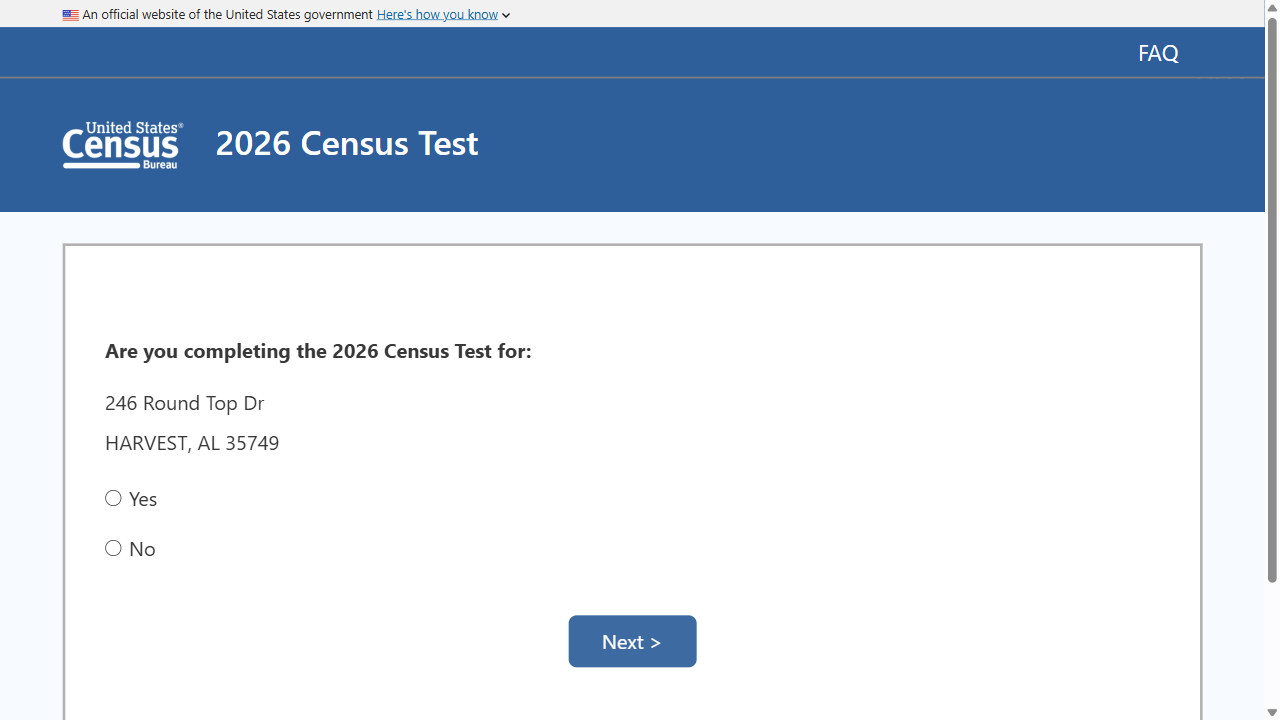
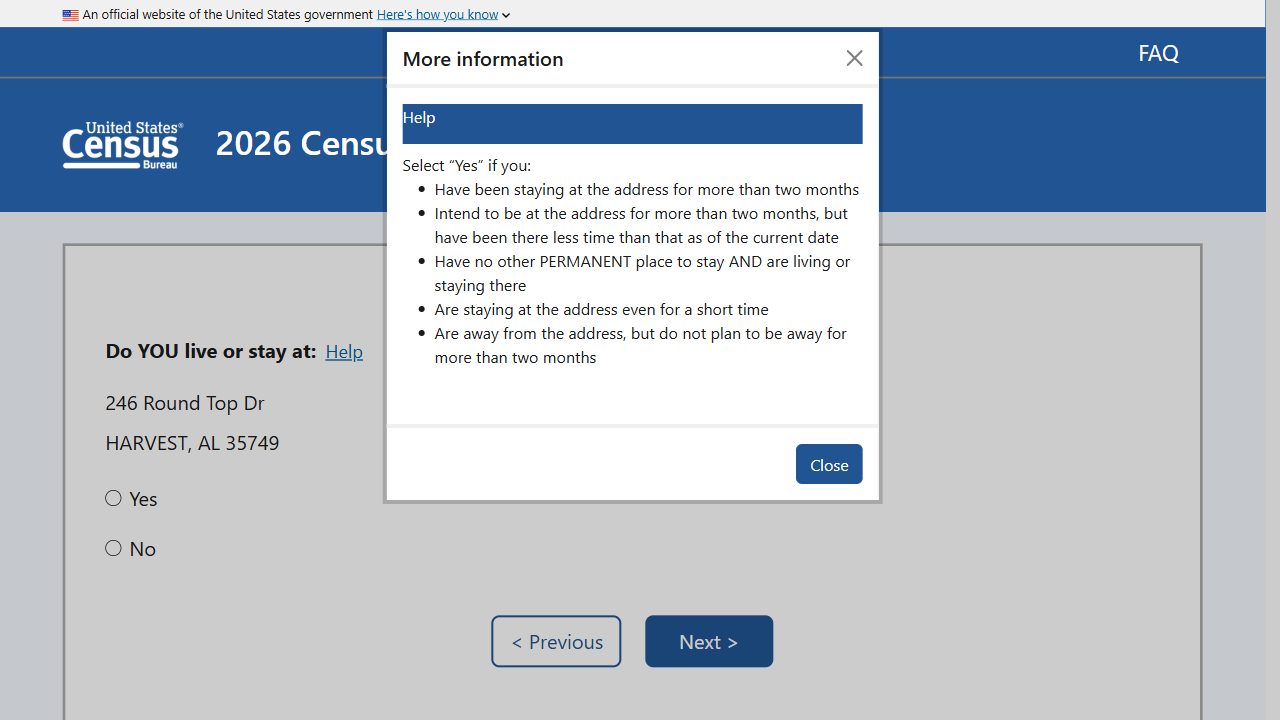
added yml file

diff --git a/tests/steps/CompletingCensus.ts b/tests/steps/CompletingCensus.ts
@@ -1,6 +1,7 @@
    import {Given,When,Then} from '@cucumber/cucumber';
     import { expect,Page}from '@playwright/test';
     import  {CompletingCensusPage} from '../pages/CompletingCensusPage';
+    import {ExcelReader} from '../utils/ExcelReader';
 
                 
         Given('I am on Census Form page1 {string}', async function (expectedHeaderPage1) {
@@ -15,6 +16,7 @@
         await this.completingCensusPage.verifyAddress(expectedAddress);  
          });
 
+                  
         Then('User clicks Yes button', async function () {
          await this.completingCensusPage.clickOnYesButton();   
          });
@@ -27,7 +29,31 @@
 
        Then('I verify that page2 {string} is displayed', async function (expectedHeaderPage2) {
         await this.page.waitForTimeout(1000);
-       await this.completingCensusPage.verifyPageHeader(expectedHeaderPage2); 
+        await this.completingCensusPage.verifyPageHeader(expectedHeaderPage2); 
+        });
+
+       Then('click Help link', async function () {
+
+        await this. page.getByRole('button', { name: 'Help' }).click();  
+        
+        //Read from UI
+        const helpSection=this.page.locator('#component170');
+        await helpSection.waitFor({state:'visible'});
+        const UIHelpText=await helpSection.textContent();
+        console.log('Help sectiontext:',UIHelpText) ;   
+       
+        //Read from excel
+        await this.page.waitForLoadState('networkidle');
+         const ExpectedHelpTextPage2=ExcelReader.getCellData('ISRData',1,0);
+         console.log('HelpTextPage2 from Excel:',ExpectedHelpTextPage2,{timeout:15000});
+         
+         //Compare both
+         expect(UIHelpText?.trim()).toContain(ExpectedHelpTextPage2.trim());
         });
 
 
+
+                
+         //Verify text on More Information window
+
+         

diff --git a/tests/pages/CompletingCensusPage.ts b/tests/pages/CompletingCensusPage.ts
@@ -4,6 +4,7 @@ export class CompletingCensusPage
   private page:Page;
   private headerPage1Locator:Locator;
   private headerLocatorPage2:Locator;
+  private headerLocatorPage3:Locator;
   private addressText:Locator;
   private yesButton:Locator;
   private nextButton:Locator;
@@ -12,7 +13,9 @@ export class CompletingCensusPage
     {
     this.page=page;
     this.headerPage1Locator=page.locator('//div[contains(@class,"question-wording mb-3 fw-bold")]/span');
-    this.headerLocatorPage2=page.locator('//div[contains(@class,"question-wording")]/span');
+    this.headerLocatorPage2=page.locator('//div[contains(@class,"question-wording")]/span');    
+    this.headerLocatorPage3=page.locator('//div[contains(@class,"question-wording")]/span');
+
     this.addressText=page.locator('Label.form-label.d-block span');  
     this.yesButton=page.getByRole('radio', { name: 'Yes' });
     this.nextButton=page.getByRole('button', { name: 'Next >' });
@@ -39,10 +42,25 @@ await expect(this.addressText).toHaveText(expectedAddress);
 async verifyPageHeader(expectedHeaderPage2:string){
  const actualHeaderPage2=await  this.headerLocatorPage2.textContent();
  console.log("Extracted Header Page2:", actualHeaderPage2);
- console.log("Expected Header: Page2", expectedHeaderPage2);
+ console.log("Expected Header: Page2:", expectedHeaderPage2);
  //await expect(this.headerLocator).toHaveText(expectedHeader);
 expect(actualHeaderPage2?.trim()).toBe( expectedHeaderPage2);
 }
+
+
+//Verify pageHeader Page3
+async verifyPageHeaderPage3(expectedHeaderPage3:string){
+ const actualHeaderPage3=await  this.headerLocatorPage3.textContent();
+ console.log("Extracted Header Page3:", actualHeaderPage3);
+ console.log("Expected Header: Page3:", expectedHeaderPage3);
+ //await expect(this.headerLocator).toHaveText(expectedHeader);
+expect(actualHeaderPage3?.trim()).toBe( expectedHeaderPage3);
+} 
+
+
+
+
+
 
 async clickOnYesButton(){
 await this.yesButton.click();
@@ -51,6 +69,11 @@ await this.yesButton.click();
 async clickOnNextButton(){
 await this.nextButton.click();
 }
+
+
+
+
+
 }
 
 

diff --git a/config/browsers/browserManager.ts b/config/browsers/browserManager.ts
@@ -1,0 +1,24 @@
+import {LaunchOptions,chromium,firefox,webkit,Browser,BrowserType} from "playwright";
+
+const options:LaunchOptions={
+    headless:false,
+};
+
+
+export async function invokeBrowser(){
+    const browserType=(process.env.BROWSER || "chromium");
+  
+    switch (browserType){
+        case "chromium":
+            case "chrome":
+           return chromium.launch(options);      
+
+
+            case "firefox":
+          return  firefox.launch(options);
+                
+            case "webkit":
+          return  webkit.launch(options);                 
+    }      
+
+};

diff --git a/tests/support/hooks.ts b/tests/support/hooks.ts
@@ -3,17 +3,22 @@ import { chromium,Browser,BrowserContext,Page } from "playwright/test";
  import {ExcelReader} from '../utils/ExcelReader';
  import {LoginPage} from '../pages/LoginPage';
   import {config}  from '../../config/env';
+  import {invokeBrowser} from '../../config/browsers/browserManager';
 
 
 setDefaultTimeout(60*2000);
-let browser:Browser;
+let browser:any
+//let browser:Browser;
 let censusId :string;
 let baseURL: string;
 
 BeforeAll(async ()=>{
-browser=await chromium.launch({
-headless:false,slowMo:1000,
-});
+  browser=await invokeBrowser();
+
+
+//browser=await chromium.launch({
+//headless:false,slowMo:1000,
+//});
 
 //Load census ID from excel
  censusId=ExcelReader.getCellData('LoginData',1,0);
@@ -50,11 +55,14 @@ await this.attach(images,"image/png");
  }   
 await this.context.close();
 });
-    
+  
+
+/*
 AfterAll(async()=>{
 if(browser){
 await browser.close();
 console.log("Browser closed");
 }
-});
 
+});
+*/

diff --git a/cucumber-report.html b/cucumber-report.html
@@ -50,7 +50,7 @@
 <div id="content">
 </div>
 <script>
-window.CUCUMBER_MESSAGES = [{"meta":{"protocolVersion":"32.2.0","implementation":{"version":"13.0.0","name":"cucumber-js"},"cpu":{"name":"x64"},"os":{"name":"win32","version":"10.0.26100"},"runtime":{"name":"node.js","version":"24.14.1"}}},{"source":{"data":"Feature: Completing census form\r\n\r\n\r\nScenario: Completing Census form\r\nGiven I am on Census Form page1 \"Are you completing the 2026 Census Test for:\"\r\nThen I verify the address \"246 Round Top Dr HARVEST, AL 35749\" is displayed\r\nAnd User clicks Yes button\r\nAnd User clicks Next\r\nThen I verify that page2 \"Do YOU live or stay at:\" is displayed\r\n","uri":"tests\\features\\CompletingCensus.feature","mediaType":"text/x.cucumber.gherkin+plain"}},{"gherkinDocument":{"feature":{"tags":[],"location":{"line":1,"column":1},"language":"en","keyword":"Feature","name":"Completing census form","description":"","children":[{"scenario":{"id":"8f3b3548-b964-42d2-a17f-02cde808bf70","tags":[],"location":{"line":4,"column":1},"keyword":"Scenario","name":"Completing Census form","description":"","steps":[{"id":"4fd6a4b5-fba2-459e-a603-d2a8d73e997b","location":{"line":5,"column":1},"keyword":"Given ","keywordType":"Context","text":"I am on Census Form page1 \"Are you completing the 2026 Census Test for:\""},{"id":"1abea9ab-7ee6-4c85-92db-3f3fc45ea4b0","location":{"line":6,"column":1},"keyword":"Then ","keywordType":"Outcome","text":"I verify the address \"246 Round Top Dr HARVEST, AL 35749\" is displayed"},{"id":"fcfafe68-5f10-4673-9590-998db92cdfab","location":{"line":7,"column":1},"keyword":"And ","keywordType":"Conjunction","text":"User clicks Yes button"},{"id":"e83f881d-aa64-46ca-bbc0-252a52026aa5","location":{"line":8,"column":1},"keyword":"And ","keywordType":"Conjunction","text":"User clicks Next"},{"id":"1ac9db35-5aff-4c8c-af15-6327a6875118","location":{"line":9,"column":1},"keyword":"Then ","keywordType":"Outcome","text":"I verify that page2 \"Do YOU live or stay at:\" is displayed"}],"examples":[]}}]},"comments":[],"uri":"tests\\features\\CompletingCensus.feature"}},{"pickle":{"id":"5739e82a-6c2e-40a8-a9f7-fbe5dacd375c","uri":"tests\\features\\CompletingCensus.feature","location":{"line":4,"column":1},"astNodeIds":["8f3b3548-b964-42d2-a17f-02cde808bf70"],"tags":[],"name":"Completing Census form","language":"en","steps":[{"id":"7e8aec2d-77fe-49ff-87f5-1bb418c7dfd7","text":"I am on Census Form page1 \"Are you completing the 2026 Census Test for:\"","type":"Context","astNodeIds":["4fd6a4b5-fba2-459e-a603-d2a8d73e997b"]},{"id":"f4f090d5-2f85-48c6-9350-33104bbdab6c","text":"I verify the address \"246 Round Top Dr HARVEST, AL 35749\" is displayed","type":"Outcome","astNodeIds":["1abea9ab-7ee6-4c85-92db-3f3fc45ea4b0"]},{"id":"2190ca62-0872-448c-97c6-6307881f53ca","text":"User clicks Yes button","type":"Outcome","astNodeIds":["fcfafe68-5f10-4673-9590-998db92cdfab"]},{"id":"8198d13d-81e0-4c62-af8e-e85adf178f33","text":"User clicks Next","type":"Outcome","astNodeIds":["e83f881d-aa64-46ca-bbc0-252a52026aa5"]},{"id":"b79f5f75-8a77-47ce-9c85-a76bc1a1a89f","text":"I verify that page2 \"Do YOU live or stay at:\" is displayed","type":"Outcome","astNodeIds":["1ac9db35-5aff-4c8c-af15-6327a6875118"]}]}},{"stepDefinition":{"id":"ef2e3416-25b1-43ef-a944-bf07ae39e0a6","pattern":{"source":"I am on Census Form page1 {string}","type":"CUCUMBER_EXPRESSION"},"sourceReference":{"uri":"tests\\steps\\CompletingCensus.ts","location":{"line":6}}}},{"stepDefinition":{"id":"378ed3d0-f1b1-44af-abac-f309fbd4b2e4","pattern":{"source":"I verify the address {string} is displayed","type":"CUCUMBER_EXPRESSION"},"sourceReference":{"uri":"tests\\steps\\CompletingCensus.ts","location":{"line":14}}}},{"stepDefinition":{"id":"b3187d92-c627-4e06-9b4d-a50bddc19d11","pattern":{"source":"User clicks Yes button","type":"CUCUMBER_EXPRESSION"},"sourceReference":{"uri":"tests\\steps\\CompletingCensus.ts","location":{"line":18}}}},{"stepDefinition":{"id":"0f385eca-7a10-4d45-98ac-33cfde34328f","pattern":{"source":"User clicks Next","type":"CUCUMBER_EXPRESSION"},"sourceReference":{"uri":"tests\\steps\\CompletingCensus.ts","location":{"line":22}}}},{"stepDefinition":{"id":"bf4bb7e3-a4f1-4c92-bc7e-65954bc87d2d","pattern":{"source":"I verify that page2 {string} is displayed","type":"CUCUMBER_EXPRESSION"},"sourceReference":{"uri":"tests\\steps\\CompletingCensus.ts","location":{"line":28}}}},{"hook":{"id":"b60ede7a-24d3-4ea8-a4c7-22b1d55e9bc5","type":"BEFORE_TEST_RUN","sourceReference":{"uri":"tests\\support\\hooks.ts","location":{"line":13}}}},{"hook":{"id":"49508486-c027-4289-bb64-889335977f2b","type":"BEFORE_TEST_CASE","sourceReference":{"uri":"tests\\support\\hooks.ts","location":{"line":25}}}},{"hook":{"id":"b3ac3181-8139-4f76-88ef-620ade2e9e6a","type":"AFTER_TEST_CASE","sourceReference":{"uri":"tests\\support\\hooks.ts","location":{"line":45}}}},{"hook":{"id":"ed3dd16b-cd07-4946-8eac-f71a44f110da","type":"AFTER_TEST_RUN","sourceReference":{"uri":"tests\\support\\hooks.ts","location":{"line":54}}}},{"testRunStarted":{"id":"8d2bfc02-54d9-42b0-920c-6d3b75cf69df","timestamp":{"seconds":1781628037,"nanos":520000000}}},{"testRunHookStarted":{"testRunStartedId":"8d2bfc02-54d9-42b0-920c-6d3b75cf69df","id":"31e9dc76-cc69-4271-81e7-f3a16417512c","hookId":"b60ede7a-24d3-4ea8-a4c7-22b1d55e9bc5","timestamp":{"seconds":1781628037,"nanos":520000000}}},{"testRunHookFinished":{"testRunHookStartedId":"31e9dc76-cc69-4271-81e7-f3a16417512c","result":{"duration":{"seconds":2,"nanos":259016599},"status":"PASSED"},"timestamp":{"seconds":1781628039,"nanos":779000000}}},{"testCase":{"testRunStartedId":"8d2bfc02-54d9-42b0-920c-6d3b75cf69df","pickleId":"5739e82a-6c2e-40a8-a9f7-fbe5dacd375c","id":"293fa36c-a4c4-472e-a2b1-12cb2357223e","testSteps":[{"id":"5824b647-7305-4aca-a3f7-f1a3dfdf4f74","hookId":"49508486-c027-4289-bb64-889335977f2b"},{"id":"5e986363-181f-4a40-8f09-53bc70b4df6a","pickleStepId":"7e8aec2d-77fe-49ff-87f5-1bb418c7dfd7","stepDefinitionIds":["ef2e3416-25b1-43ef-a944-bf07ae39e0a6"],"stepMatchArgumentsLists":[{"stepMatchArguments":[{"group":{"start":26,"value":"\"Are you completing the 2026 Census Test for:\"","children":[{"start":27,"value":"Are you completing the 2026 Census Test for:","children":[{}]},{"children":[{}]}]},"parameterTypeName":"string"}]}]},{"id":"7d4380dc-c2b5-45e1-8fda-f7c253079ba9","pickleStepId":"f4f090d5-2f85-48c6-9350-33104bbdab6c","stepDefinitionIds":["378ed3d0-f1b1-44af-abac-f309fbd4b2e4"],"stepMatchArgumentsLists":[{"stepMatchArguments":[{"group":{"start":21,"value":"\"246 Round Top Dr HARVEST, AL 35749\"","children":[{"start":22,"value":"246 Round Top Dr HARVEST, AL 35749","children":[{}]},{"children":[{}]}]},"parameterTypeName":"string"}]}]},{"id":"7ba032b8-880d-490e-bb90-8dd2de8b2c77","pickleStepId":"2190ca62-0872-448c-97c6-6307881f53ca","stepDefinitionIds":["b3187d92-c627-4e06-9b4d-a50bddc19d11"],"stepMatchArgumentsLists":[{"stepMatchArguments":[]}]},{"id":"fc0dc25e-e42a-414e-9f22-4ab6acc9760b","pickleStepId":"8198d13d-81e0-4c62-af8e-e85adf178f33","stepDefinitionIds":["0f385eca-7a10-4d45-98ac-33cfde34328f"],"stepMatchArgumentsLists":[{"stepMatchArguments":[]}]},{"id":"dbf07046-9762-4ed0-8df5-a6ae46be6d08","pickleStepId":"b79f5f75-8a77-47ce-9c85-a76bc1a1a89f","stepDefinitionIds":["bf4bb7e3-a4f1-4c92-bc7e-65954bc87d2d"],"stepMatchArgumentsLists":[{"stepMatchArguments":[{"group":{"start":20,"value":"\"Do YOU live or stay at:\"","children":[{"start":21,"value":"Do YOU live or stay at:","children":[{}]},{"children":[{}]}]},"parameterTypeName":"string"}]}]},{"id":"0b657aff-d8f7-4122-8888-def97f0d87bf","hookId":"b3ac3181-8139-4f76-88ef-620ade2e9e6a"}]}},{"testCaseStarted":{"attempt":0,"testCaseId":"293fa36c-a4c4-472e-a2b1-12cb2357223e","id":"cd370ed1-6437-46d2-8d1b-dd9ed9816640","timestamp":{"seconds":1781628039,"nanos":800000000}}},{"testStepStarted":{"testCaseStartedId":"cd370ed1-6437-46d2-8d1b-dd9ed9816640","testStepId":"5824b647-7305-4aca-a3f7-f1a3dfdf4f74","timestamp":{"seconds":1781628039,"nanos":800000000}}},{"testStepFinished":{"testCaseStartedId":"cd370ed1-6437-46d2-8d1b-dd9ed9816640","testStepId":"5824b647-7305-4aca-a3f7-f1a3dfdf4f74","testStepResult":{"duration":{"seconds":9,"nanos":340453599},"status":"PASSED"},"timestamp":{"seconds":1781628049,"nanos":142000000}}},{"testStepStarted":{"testCaseStartedId":"cd370ed1-6437-46d2-8d1b-dd9ed9816640","testStepId":"5e986363-181f-4a40-8f09-53bc70b4df6a","timestamp":{"seconds":1781628049,"nanos":142000000}}},{"testStepFinished":{"testCaseStartedId":"cd370ed1-6437-46d2-8d1b-dd9ed9816640","testStepId":"5e986363-181f-4a40-8f09-53bc70b4df6a","testStepResult":{"duration":{"seconds":0,"nanos":45574499},"status":"PASSED"},"timestamp":{"seconds":1781628049,"nanos":188000000}}},{"testStepStarted":{"testCaseStartedId":"cd370ed1-6437-46d2-8d1b-dd9ed9816640","testStepId":"7d4380dc-c2b5-45e1-8fda-f7c253079ba9","timestamp":{"seconds":1781628049,"nanos":188000000}}},{"testStepFinished":{"testCaseStartedId":"cd370ed1-6437-46d2-8d1b-dd9ed9816640","testStepId":"7d4380dc-c2b5-45e1-8fda-f7c253079ba9","testStepResult":{"duration":{"seconds":0,"nanos":13324800},"status":"PASSED"},"timestamp":{"seconds":1781628049,"nanos":202000000}}},{"testStepStarted":{"testCaseStartedId":"cd370ed1-6437-46d2-8d1b-dd9ed9816640","testStepId":"7ba032b8-880d-490e-bb90-8dd2de8b2c77","timestamp":{"seconds":1781628049,"nanos":202000000}}},{"testStepFinished":{"testCaseStartedId":"cd370ed1-6437-46d2-8d1b-dd9ed9816640","testStepId":"7ba032b8-880d-490e-bb90-8dd2de8b2c77","testStepResult":{"duration":{"seconds":1,"nanos":51309400},"status":"PASSED"},"timestamp":{"seconds":1781628050,"nanos":254000000}}},{"testStepStarted":{"testCaseStartedId":"cd370ed1-6437-46d2-8d1b-dd9ed9816640","testStepId":"fc0dc25e-e42a-414e-9f22-4ab6acc9760b","timestamp":{"seconds":1781628050,"nanos":255000000}}},{"testStepFinished":{"testCaseStartedId":"cd370ed1-6437-46d2-8d1b-dd9ed9816640","testStepId":"fc0dc25e-e42a-414e-9f22-4ab6acc9760b","testStepResult":{"duration":{"seconds":2,"nanos":74309300},"status":"PASSED"},"timestamp":{"seconds":1781628052,"nanos":329000000}}},{"testStepStarted":{"testCaseStartedId":"cd370ed1-6437-46d2-8d1b-dd9ed9816640","testStepId":"dbf07046-9762-4ed0-8df5-a6ae46be6d08","timestamp":{"seconds":1781628052,"nanos":331000000}}},{"testStepFinished":{"testCaseStartedId":"cd370ed1-6437-46d2-8d1b-dd9ed9816640","testStepId":"dbf07046-9762-4ed0-8df5-a6ae46be6d08","testStepResult":{"duration":{"seconds":1,"nanos":30193200},"status":"PASSED"},"timestamp":{"seconds":1781628053,"nanos":361000000}}},{"testStepStarted":{"testCaseStartedId":"cd370ed1-6437-46d2-8d1b-dd9ed9816640","testStepId":"0b657aff-d8f7-4122-8888-def97f0d87bf","timestamp":{"seconds":1781628053,"nanos":362000000}}},{"testStepFinished":{"testCaseStartedId":"cd370ed1-6437-46d2-8d1b-dd9ed9816640","testStepId":"0b657aff-d8f7-4122-8888-def97f0d87bf","testStepResult":{"duration":{"seconds":0,"nanos":23873800},"status":"PASSED"},"timestamp":{"seconds":1781628053,"nanos":386000000}}},{"testCaseFinished":{"testCaseStartedId":"cd370ed1-6437-46d2-8d1b-dd9ed9816640","timestamp":{"seconds":1781628053,"nanos":386000000},"willBeRetried":false}},{"testRunHookStarted":{"testRunStartedId":"8d2bfc02-54d9-42b0-920c-6d3b75cf69df","id":"fba8bc16-1365-48f5-814b-4ab67fd512b1","hookId":"ed3dd16b-cd07-4946-8eac-f71a44f110da","timestamp":{"seconds":1781628053,"nanos":387000000}}},{"testRunHookFinished":{"testRunHookStartedId":"fba8bc16-1365-48f5-814b-4ab67fd512b1","result":{"duration":{"seconds":0,"nanos":352330500},"status":"PASSED"},"timestamp":{"seconds":1781628053,"nanos":739000000}}},{"testRunFinished":{"testRunStartedId":"8d2bfc02-54d9-42b0-920c-6d3b75cf69df","timestamp":{"seconds":1781628053,"nanos":740000000},"success":true}}];
+window.CUCUMBER_MESSAGES = [{"meta":{"protocolVersion":"32.2.0","implementation":{"version":"13.0.0","name":"cucumber-js"},"cpu":{"name":"x64"},"os":{"name":"win32","version":"10.0.26100"},"runtime":{"name":"node.js","version":"24.17.0"}}},{"source":{"data":"Feature: Completing census form\r\n\r\n\r\nScenario: Completing Census form\r\nGiven I am on Census Form page1 \"Are you completing the 2026 Census Test for:\"\r\nThen I verify the address \"246 Round Top Dr HARVEST, AL 35749\" is displayed\r\nAnd User clicks Yes button\r\nAnd User clicks Next\r\nThen I verify that page2 \"Do YOU live or stay at:\" is displayed\r\n\r\nThen I verify the address \"246 Round Top Dr HARVEST, AL 35749\" is displayed\r\nAnd click Help link\r\n","uri":"tests\\features\\CompletingCensus.feature","mediaType":"text/x.cucumber.gherkin+plain"}},{"gherkinDocument":{"feature":{"tags":[],"location":{"line":1,"column":1},"language":"en","keyword":"Feature","name":"Completing census form","description":"","children":[{"scenario":{"id":"ca891f96-6a0d-4369-97c8-2ffbd2f3ee6f","tags":[],"location":{"line":4,"column":1},"keyword":"Scenario","name":"Completing Census form","description":"","steps":[{"id":"2663a76d-883f-4205-a295-1cdc45c0d0ed","location":{"line":5,"column":1},"keyword":"Given ","keywordType":"Context","text":"I am on Census Form page1 \"Are you completing the 2026 Census Test for:\""},{"id":"51f1652e-5405-4adb-b226-704189e156cf","location":{"line":6,"column":1},"keyword":"Then ","keywordType":"Outcome","text":"I verify the address \"246 Round Top Dr HARVEST, AL 35749\" is displayed"},{"id":"e914fc01-5b8d-4c8c-9a7f-86099d928644","location":{"line":7,"column":1},"keyword":"And ","keywordType":"Conjunction","text":"User clicks Yes button"},{"id":"038a3877-7996-4db8-ad1d-0396f5fd9785","location":{"line":8,"column":1},"keyword":"And ","keywordType":"Conjunction","text":"User clicks Next"},{"id":"0db939e6-a720-4f71-8a14-ed7097a0d4f5","location":{"line":9,"column":1},"keyword":"Then ","keywordType":"Outcome","text":"I verify that page2 \"Do YOU live or stay at:\" is displayed"},{"id":"736d9f68-da33-48a9-a59a-24e9bf25298a","location":{"line":11,"column":1},"keyword":"Then ","keywordType":"Outcome","text":"I verify the address \"246 Round Top Dr HARVEST, AL 35749\" is displayed"},{"id":"399609a7-6ebf-49bb-a0eb-903743284bcb","location":{"line":12,"column":1},"keyword":"And ","keywordType":"Conjunction","text":"click Help link"}],"examples":[]}}]},"comments":[],"uri":"tests\\features\\CompletingCensus.feature"}},{"pickle":{"id":"1b8bc47f-98b2-4709-af5a-7ce675725535","uri":"tests\\features\\CompletingCensus.feature","location":{"line":4,"column":1},"astNodeIds":["ca891f96-6a0d-4369-97c8-2ffbd2f3ee6f"],"tags":[],"name":"Completing Census form","language":"en","steps":[{"id":"08ea0f4d-0c43-4f76-be28-40505120a210","text":"I am on Census Form page1 \"Are you completing the 2026 Census Test for:\"","type":"Context","astNodeIds":["2663a76d-883f-4205-a295-1cdc45c0d0ed"]},{"id":"1f8e438a-6384-4f21-8e56-3e016f0edd4e","text":"I verify the address \"246 Round Top Dr HARVEST, AL 35749\" is displayed","type":"Outcome","astNodeIds":["51f1652e-5405-4adb-b226-704189e156cf"]},{"id":"f56198c9-a0f5-4d7a-a166-ae3049a35f4c","text":"User clicks Yes button","type":"Outcome","astNodeIds":["e914fc01-5b8d-4c8c-9a7f-86099d928644"]},{"id":"4092f1bf-04f0-4f3c-b845-559372fd8567","text":"User clicks Next","type":"Outcome","astNodeIds":["038a3877-7996-4db8-ad1d-0396f5fd9785"]},{"id":"bce3ef11-63d6-49e8-a3eb-acef2f8ba499","text":"I verify that page2 \"Do YOU live or stay at:\" is displayed","type":"Outcome","astNodeIds":["0db939e6-a720-4f71-8a14-ed7097a0d4f5"]},{"id":"4d0d916e-2984-414e-a896-c1cb1c6a2621","text":"I verify the address \"246 Round Top Dr HARVEST, AL 35749\" is displayed","type":"Outcome","astNodeIds":["736d9f68-da33-48a9-a59a-24e9bf25298a"]},{"id":"157aa4ca-3ace-4dee-a376-9f7ee934442e","text":"click Help link","type":"Outcome","astNodeIds":["399609a7-6ebf-49bb-a0eb-903743284bcb"]}]}},{"stepDefinition":{"id":"04a7d576-b3e5-41f0-8ed7-76b75afd45e6","pattern":{"source":"I am on Census Form page1 {string}","type":"CUCUMBER_EXPRESSION"},"sourceReference":{"uri":"tests\\steps\\CompletingCensus.ts","location":{"line":7}}}},{"stepDefinition":{"id":"febdd5bb-3768-4fa2-a1a0-17694f2f8320","pattern":{"source":"I verify the address {string} is displayed","type":"CUCUMBER_EXPRESSION"},"sourceReference":{"uri":"tests\\steps\\CompletingCensus.ts","location":{"line":15}}}},{"stepDefinition":{"id":"57c8c13e-0577-4165-8418-1273abd9a24c","pattern":{"source":"User clicks Yes button","type":"CUCUMBER_EXPRESSION"},"sourceReference":{"uri":"tests\\steps\\CompletingCensus.ts","location":{"line":20}}}},{"stepDefinition":{"id":"98c4fb71-6401-402f-ae72-045799787127","pattern":{"source":"User clicks Next","type":"CUCUMBER_EXPRESSION"},"sourceReference":{"uri":"tests\\steps\\CompletingCensus.ts","location":{"line":24}}}},{"stepDefinition":{"id":"9bdf0fcc-371d-4371-b6b4-d4fd1b9836bb","pattern":{"source":"I verify that page2 {string} is displayed","type":"CUCUMBER_EXPRESSION"},"sourceReference":{"uri":"tests\\steps\\CompletingCensus.ts","location":{"line":30}}}},{"stepDefinition":{"id":"8e877156-a4c9-4dd1-b448-ec833bd86e2e","pattern":{"source":"click Help link","type":"CUCUMBER_EXPRESSION"},"sourceReference":{"uri":"tests\\steps\\CompletingCensus.ts","location":{"line":35}}}},{"hook":{"id":"05e82004-9447-45b0-aba6-0ae91b7e08b3","type":"BEFORE_TEST_RUN","sourceReference":{"uri":"tests\\support\\hooks.ts","location":{"line":15}}}},{"hook":{"id":"3a6b24ea-7ec0-4848-a671-17b893af288c","type":"BEFORE_TEST_CASE","sourceReference":{"uri":"tests\\support\\hooks.ts","location":{"line":30}}}},{"hook":{"id":"43846a2b-bcb7-4091-ad69-32d4e7603860","type":"AFTER_TEST_CASE","sourceReference":{"uri":"tests\\support\\hooks.ts","location":{"line":50}}}},{"testRunStarted":{"id":"45187902-3d92-4f87-bc9d-5863bd765993","timestamp":{"seconds":1782416764,"nanos":836000000}}},{"testRunHookStarted":{"testRunStartedId":"45187902-3d92-4f87-bc9d-5863bd765993","id":"0d93974e-bbd8-447b-84e3-a4ba250a5529","hookId":"05e82004-9447-45b0-aba6-0ae91b7e08b3","timestamp":{"seconds":1782416764,"nanos":836000000}}},{"testRunHookFinished":{"testRunHookStartedId":"0d93974e-bbd8-447b-84e3-a4ba250a5529","result":{"duration":{"seconds":0,"nanos":552696399},"status":"PASSED"},"timestamp":{"seconds":1782416765,"nanos":389000000}}},{"testCase":{"testRunStartedId":"45187902-3d92-4f87-bc9d-5863bd765993","pickleId":"1b8bc47f-98b2-4709-af5a-7ce675725535","id":"1efc269e-0268-4ea0-8e39-a0c43ae1be59","testSteps":[{"id":"73c1a92d-d38f-4cc0-ae56-bb5a7dd460c8","hookId":"3a6b24ea-7ec0-4848-a671-17b893af288c"},{"id":"8e6852b9-4b47-4f7d-9ef2-87dbd0dc6586","pickleStepId":"08ea0f4d-0c43-4f76-be28-40505120a210","stepDefinitionIds":["04a7d576-b3e5-41f0-8ed7-76b75afd45e6"],"stepMatchArgumentsLists":[{"stepMatchArguments":[{"group":{"start":26,"value":"\"Are you completing the 2026 Census Test for:\"","children":[{"start":27,"value":"Are you completing the 2026 Census Test for:","children":[{}]},{"children":[{}]}]},"parameterTypeName":"string"}]}]},{"id":"ce997908-e6a3-4645-b278-2cbddfed321d","pickleStepId":"1f8e438a-6384-4f21-8e56-3e016f0edd4e","stepDefinitionIds":["febdd5bb-3768-4fa2-a1a0-17694f2f8320"],"stepMatchArgumentsLists":[{"stepMatchArguments":[{"group":{"start":21,"value":"\"246 Round Top Dr HARVEST, AL 35749\"","children":[{"start":22,"value":"246 Round Top Dr HARVEST, AL 35749","children":[{}]},{"children":[{}]}]},"parameterTypeName":"string"}]}]},{"id":"bd3e10b6-c2f6-4f74-9e32-1b46e50a00af","pickleStepId":"f56198c9-a0f5-4d7a-a166-ae3049a35f4c","stepDefinitionIds":["57c8c13e-0577-4165-8418-1273abd9a24c"],"stepMatchArgumentsLists":[{"stepMatchArguments":[]}]},{"id":"165d18c8-41b4-4ea5-a6f1-7da5fc616e5e","pickleStepId":"4092f1bf-04f0-4f3c-b845-559372fd8567","stepDefinitionIds":["98c4fb71-6401-402f-ae72-045799787127"],"stepMatchArgumentsLists":[{"stepMatchArguments":[]}]},{"id":"2be0de1a-c921-4ab6-9704-400289956a71","pickleStepId":"bce3ef11-63d6-49e8-a3eb-acef2f8ba499","stepDefinitionIds":["9bdf0fcc-371d-4371-b6b4-d4fd1b9836bb"],"stepMatchArgumentsLists":[{"stepMatchArguments":[{"group":{"start":20,"value":"\"Do YOU live or stay at:\"","children":[{"start":21,"value":"Do YOU live or stay at:","children":[{}]},{"children":[{}]}]},"parameterTypeName":"string"}]}]},{"id":"2f2ffa1e-25cc-4a49-8d5f-65207edd9811","pickleStepId":"4d0d916e-2984-414e-a896-c1cb1c6a2621","stepDefinitionIds":["febdd5bb-3768-4fa2-a1a0-17694f2f8320"],"stepMatchArgumentsLists":[{"stepMatchArguments":[{"group":{"start":21,"value":"\"246 Round Top Dr HARVEST, AL 35749\"","children":[{"start":22,"value":"246 Round Top Dr HARVEST, AL 35749","children":[{}]},{"children":[{}]}]},"parameterTypeName":"string"}]}]},{"id":"5cd75a09-0ef9-43f1-868b-c6aca0fbd31b","pickleStepId":"157aa4ca-3ace-4dee-a376-9f7ee934442e","stepDefinitionIds":["8e877156-a4c9-4dd1-b448-ec833bd86e2e"],"stepMatchArgumentsLists":[{"stepMatchArguments":[]}]},{"id":"084029b6-a607-4fe8-9ca5-1cdc756955d8","hookId":"43846a2b-bcb7-4091-ad69-32d4e7603860"}]}},{"testCaseStarted":{"attempt":0,"testCaseId":"1efc269e-0268-4ea0-8e39-a0c43ae1be59","id":"26d62586-4263-4ba2-a282-064bdd515ae7","timestamp":{"seconds":1782416765,"nanos":403000000}}},{"testStepStarted":{"testCaseStartedId":"26d62586-4263-4ba2-a282-064bdd515ae7","testStepId":"73c1a92d-d38f-4cc0-ae56-bb5a7dd460c8","timestamp":{"seconds":1782416765,"nanos":403000000}}},{"testStepFinished":{"testCaseStartedId":"26d62586-4263-4ba2-a282-064bdd515ae7","testStepId":"73c1a92d-d38f-4cc0-ae56-bb5a7dd460c8","testStepResult":{"duration":{"seconds":5,"nanos":765278699},"status":"PASSED"},"timestamp":{"seconds":1782416771,"nanos":169000000}}},{"testStepStarted":{"testCaseStartedId":"26d62586-4263-4ba2-a282-064bdd515ae7","testStepId":"8e6852b9-4b47-4f7d-9ef2-87dbd0dc6586","timestamp":{"seconds":1782416771,"nanos":169000000}}},{"testStepFinished":{"testCaseStartedId":"26d62586-4263-4ba2-a282-064bdd515ae7","testStepId":"8e6852b9-4b47-4f7d-9ef2-87dbd0dc6586","testStepResult":{"duration":{"seconds":0,"nanos":198523599},"status":"PASSED"},"timestamp":{"seconds":1782416771,"nanos":368000000}}},{"testStepStarted":{"testCaseStartedId":"26d62586-4263-4ba2-a282-064bdd515ae7","testStepId":"ce997908-e6a3-4645-b278-2cbddfed321d","timestamp":{"seconds":1782416771,"nanos":369000000}}},{"testStepFinished":{"testCaseStartedId":"26d62586-4263-4ba2-a282-064bdd515ae7","testStepId":"ce997908-e6a3-4645-b278-2cbddfed321d","testStepResult":{"duration":{"seconds":0,"nanos":10139900},"status":"PASSED"},"timestamp":{"seconds":1782416771,"nanos":379000000}}},{"testStepStarted":{"testCaseStartedId":"26d62586-4263-4ba2-a282-064bdd515ae7","testStepId":"bd3e10b6-c2f6-4f74-9e32-1b46e50a00af","timestamp":{"seconds":1782416771,"nanos":380000000}}},{"testStepFinished":{"testCaseStartedId":"26d62586-4263-4ba2-a282-064bdd515ae7","testStepId":"bd3e10b6-c2f6-4f74-9e32-1b46e50a00af","testStepResult":{"duration":{"seconds":0,"nanos":30482599},"status":"PASSED"},"timestamp":{"seconds":1782416771,"nanos":410000000}}},{"testStepStarted":{"testCaseStartedId":"26d62586-4263-4ba2-a282-064bdd515ae7","testStepId":"165d18c8-41b4-4ea5-a6f1-7da5fc616e5e","timestamp":{"seconds":1782416771,"nanos":411000000}}},{"testStepFinished":{"testCaseStartedId":"26d62586-4263-4ba2-a282-064bdd515ae7","testStepId":"165d18c8-41b4-4ea5-a6f1-7da5fc616e5e","testStepResult":{"duration":{"seconds":1,"nanos":73250700},"status":"PASSED"},"timestamp":{"seconds":1782416772,"nanos":484000000}}},{"testStepStarted":{"testCaseStartedId":"26d62586-4263-4ba2-a282-064bdd515ae7","testStepId":"2be0de1a-c921-4ab6-9704-400289956a71","timestamp":{"seconds":1782416772,"nanos":485000000}}},{"testStepFinished":{"testCaseStartedId":"26d62586-4263-4ba2-a282-064bdd515ae7","testStepId":"2be0de1a-c921-4ab6-9704-400289956a71","testStepResult":{"duration":{"seconds":1,"nanos":9549399},"status":"PASSED"},"timestamp":{"seconds":1782416773,"nanos":495000000}}},{"testStepStarted":{"testCaseStartedId":"26d62586-4263-4ba2-a282-064bdd515ae7","testStepId":"2f2ffa1e-25cc-4a49-8d5f-65207edd9811","timestamp":{"seconds":1782416773,"nanos":495000000}}},{"testStepFinished":{"testCaseStartedId":"26d62586-4263-4ba2-a282-064bdd515ae7","testStepId":"2f2ffa1e-25cc-4a49-8d5f-65207edd9811","testStepResult":{"duration":{"seconds":0,"nanos":5771799},"status":"PASSED"},"timestamp":{"seconds":1782416773,"nanos":501000000}}},{"testStepStarted":{"testCaseStartedId":"26d62586-4263-4ba2-a282-064bdd515ae7","testStepId":"5cd75a09-0ef9-43f1-868b-c6aca0fbd31b","timestamp":{"seconds":1782416773,"nanos":501000000}}},{"testStepFinished":{"testCaseStartedId":"26d62586-4263-4ba2-a282-064bdd515ae7","testStepId":"5cd75a09-0ef9-43f1-868b-c6aca0fbd31b","testStepResult":{"duration":{"seconds":0,"nanos":47874799},"status":"PASSED"},"timestamp":{"seconds":1782416773,"nanos":549000000}}},{"testStepStarted":{"testCaseStartedId":"26d62586-4263-4ba2-a282-064bdd515ae7","testStepId":"084029b6-a607-4fe8-9ca5-1cdc756955d8","timestamp":{"seconds":1782416773,"nanos":549000000}}},{"testStepFinished":{"testCaseStartedId":"26d62586-4263-4ba2-a282-064bdd515ae7","testStepId":"084029b6-a607-4fe8-9ca5-1cdc756955d8","testStepResult":{"duration":{"seconds":0,"nanos":19882100},"status":"PASSED"},"timestamp":{"seconds":1782416773,"nanos":569000000}}},{"testCaseFinished":{"testCaseStartedId":"26d62586-4263-4ba2-a282-064bdd515ae7","timestamp":{"seconds":1782416773,"nanos":570000000},"willBeRetried":false}},{"testRunFinished":{"testRunStartedId":"45187902-3d92-4f87-bc9d-5863bd765993","timestamp":{"seconds":1782416773,"nanos":570000000},"success":true}}];
 </script>
 <script>
 /*! For license information please see main.js.LICENSE.txt */